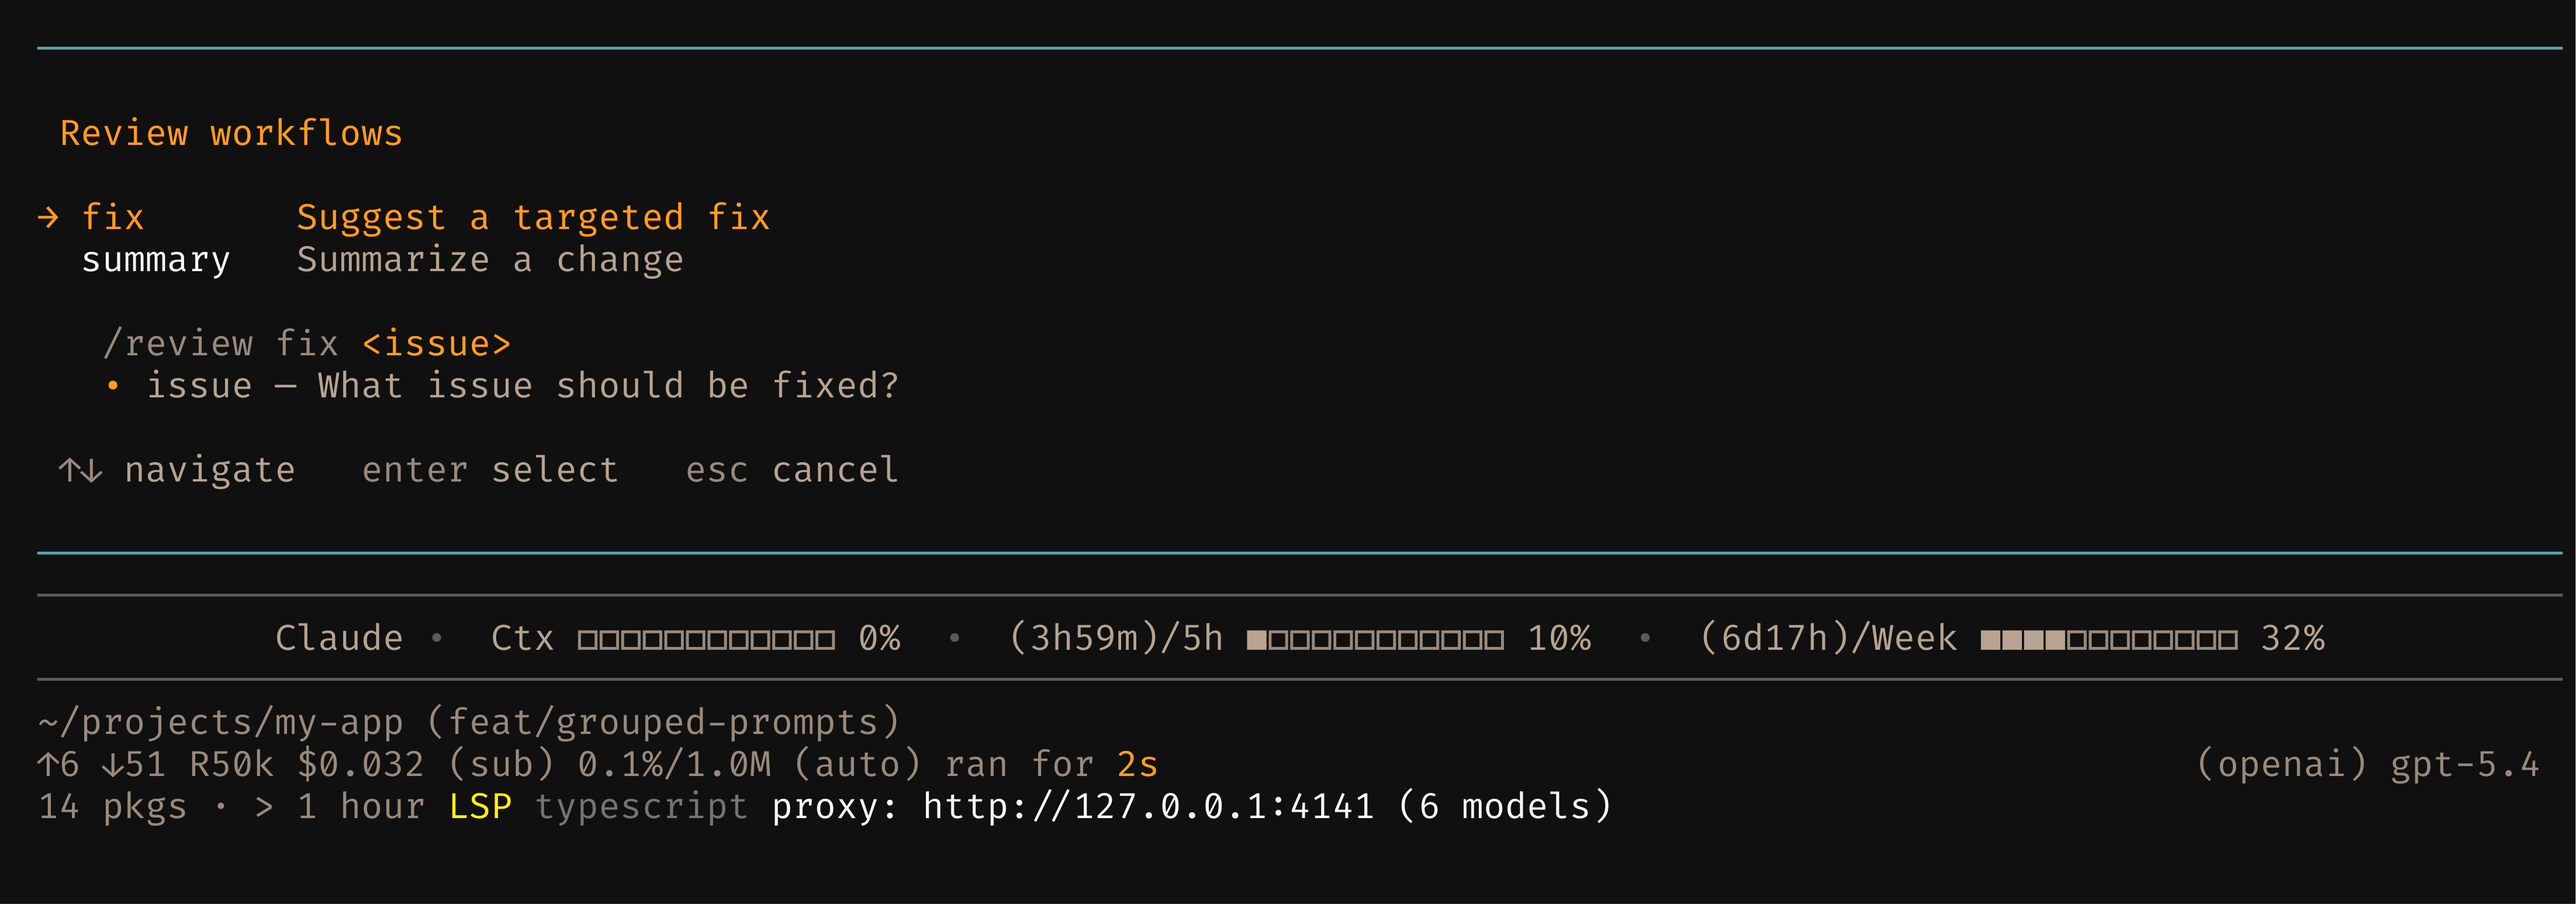
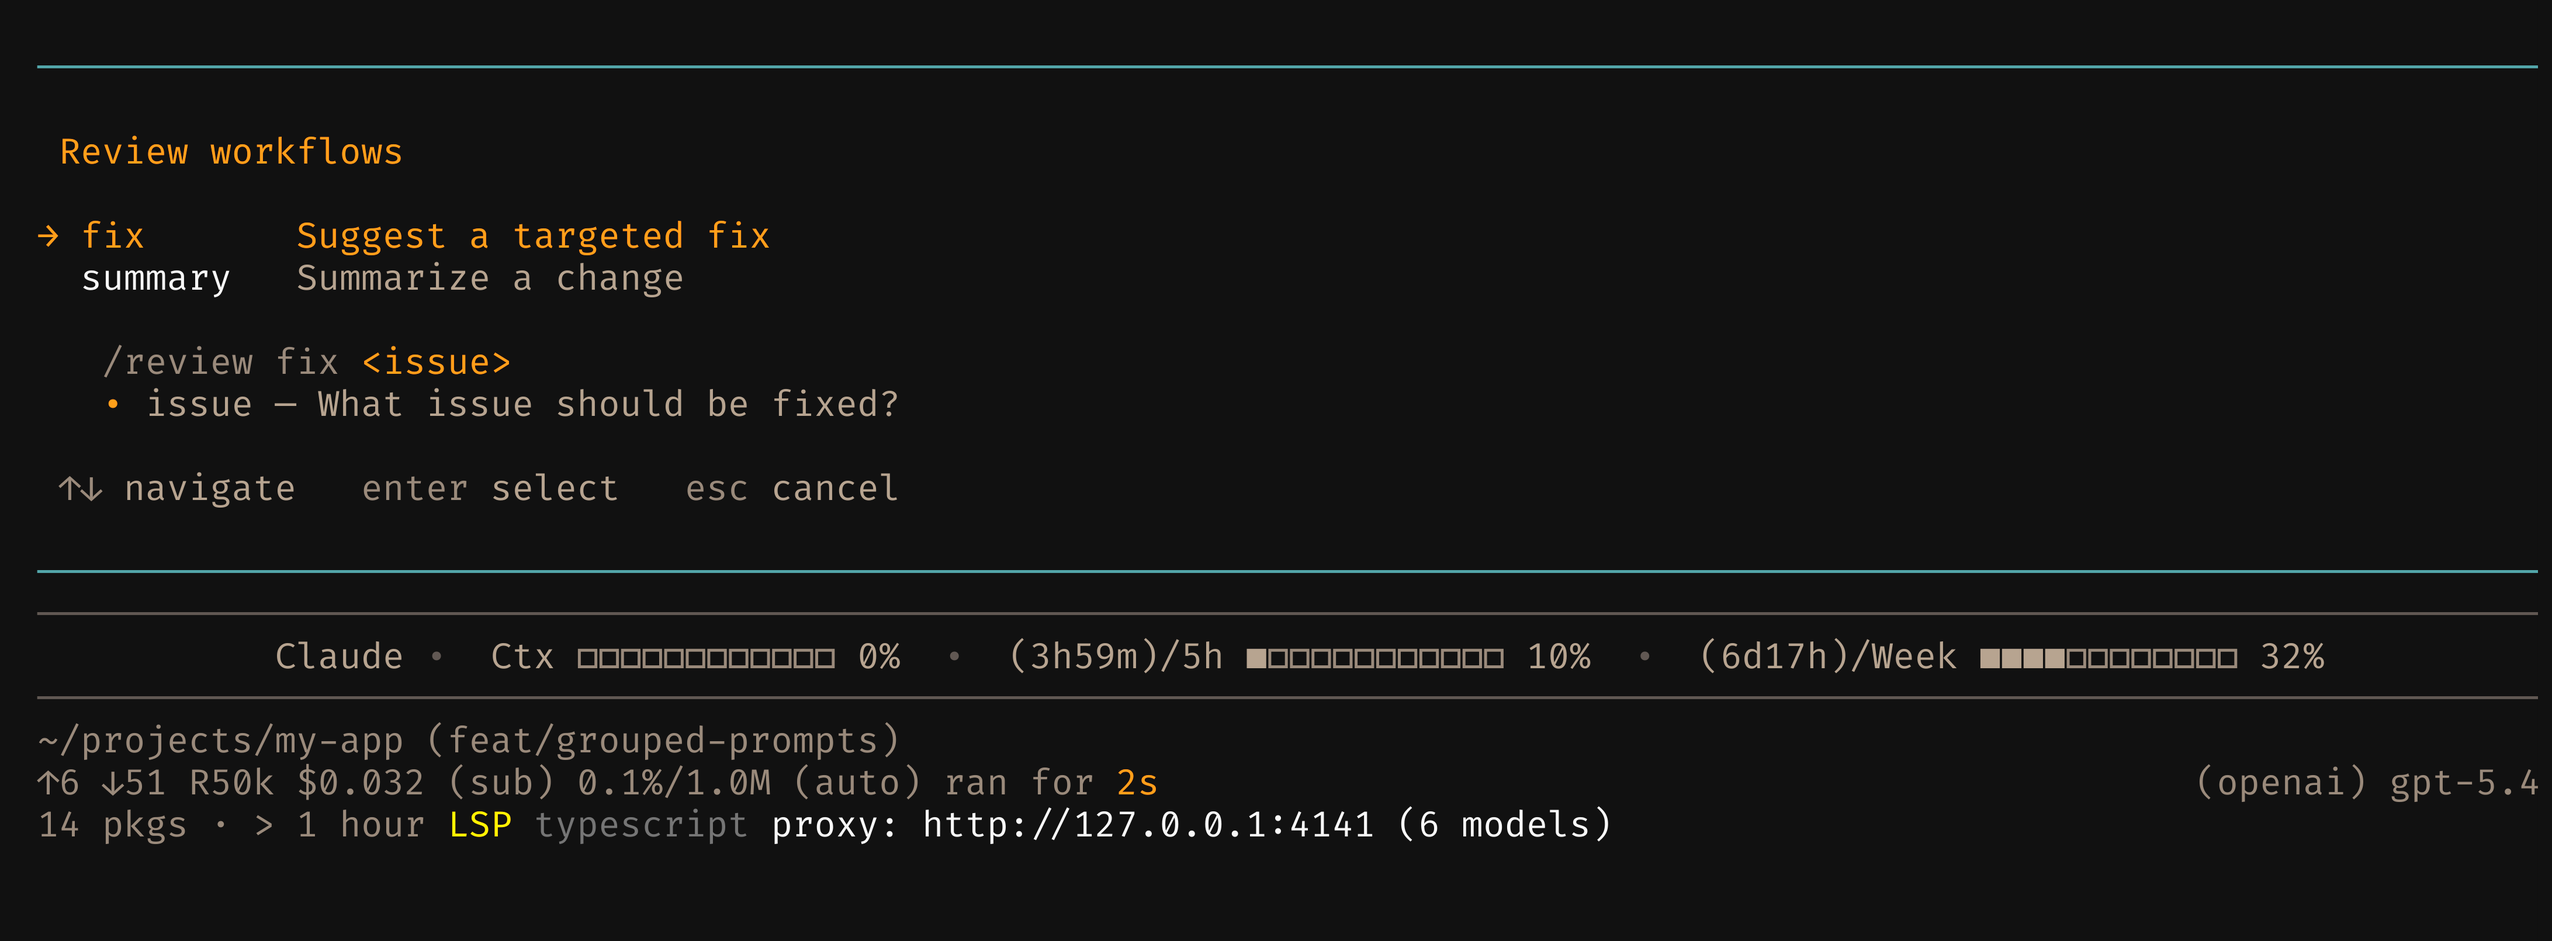
fix: rename preview script to .py, symmetric padding with Pillow canvas fix
- Rename generate-preview.sh -> generate-preview.py (uv shebang, not shell)
- Symmetric 16px padding from freeze
- Pillow extends canvas 24px right to compensate freeze font-metric clipping
- Remove stale .sh and enhance-preview.py

diff --git a/scripts/generate-preview.py b/scripts/generate-preview.py
@@ -6,8 +6,9 @@
 """
 Render assets/preview.png from the sanitized ANSI dump.
 
-1. Pipes assets/preview-dump.ansi through freeze (must be on PATH)
-2. Post-processes with Pillow to boost contrast
+1. Pipes assets/preview-dump.ansi through freeze
+2. Extends the canvas right to compensate for freeze's font-metric clipping
+3. Boosts contrast with Pillow
 
 Prerequisites:
   - freeze (brew install charmbracelet/tap/freeze)
@@ -18,21 +19,22 @@ To regenerate from a fresh Pi capture:
   1. Resize terminal to 120 cols
   2. Show the /review selector in Pi
   3. Capture the raw dump to pi-dump.txt (not committed)
-  4. Run: python3 scripts/sanitize-dump.py
-  5. Run: ./scripts/generate-preview.sh
+  4. Run: ./scripts/sanitize-dump.py
+  5. Run: ./scripts/generate-preview.py
 """
 import subprocess
 import sys
 from pathlib import Path
 
-from PIL import Image, ImageEnhance
+from PIL import Image, ImageColor, ImageEnhance
 
 DUMP = Path("assets/preview-dump.ansi")
 OUTPUT = Path("assets/preview.png")
 BG = "#121212"
 FONT_FILE = Path.home() / "Library/Fonts/FiraCodeNerdFontMono-Regular.ttf"
+PADDING = "16"  # symmetric
+RIGHT_EXTEND = 24  # extra px to compensate freeze clipping the last glyph
 CONTRAST = 1.3
-PADDING = "8,32,8,16"  # top,right,bottom,left — right needs extra for font metrics
 
 if not DUMP.exists():
     print(f"Error: {DUMP} not found.", file=sys.stderr)
@@ -60,9 +62,13 @@ with DUMP.open("rb") as f:
         check=True,
     )
 
-# Boost contrast
-img = Image.open(OUTPUT)
-img = ImageEnhance.Contrast(img).enhance(CONTRAST)
-img.save(OUTPUT, optimize=True)
+# Post-process: extend right edge + boost contrast
+img = Image.open(OUTPUT).convert("RGB")
+w, h = img.size
+bg_color = ImageColor.getrgb(BG)
+canvas = Image.new("RGB", (w + RIGHT_EXTEND, h), bg_color)
+canvas.paste(img, (0, 0))
+canvas = ImageEnhance.Contrast(canvas).enhance(CONTRAST)
+canvas.save(OUTPUT, optimize=True)
 
-print(f"Preview written to {OUTPUT} (contrast ×{CONTRAST})")
+print(f"Preview written to {OUTPUT} ({w + RIGHT_EXTEND}x{h}, contrast ×{CONTRAST})")
